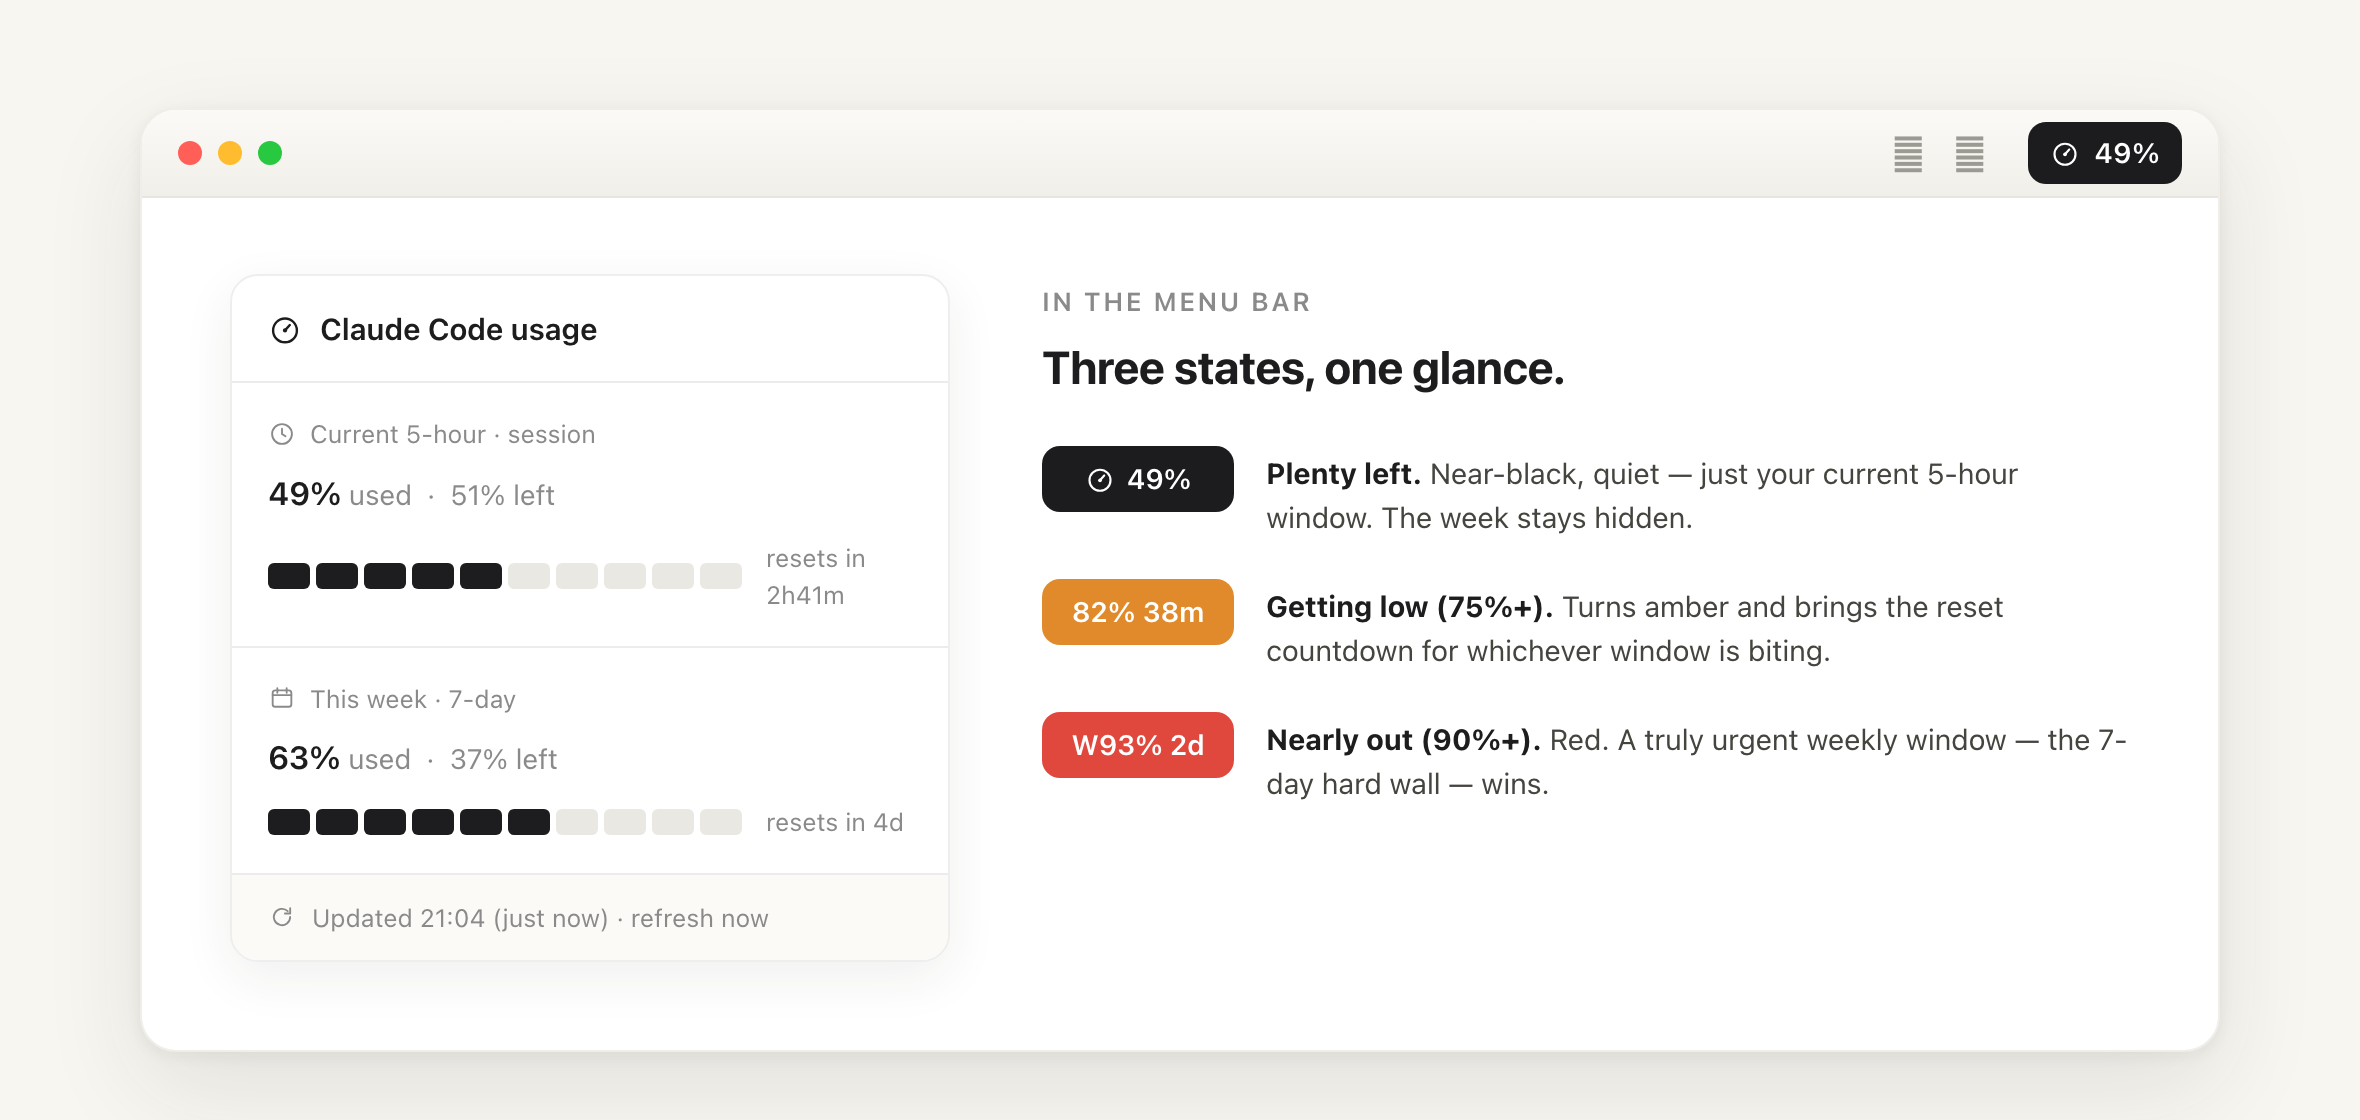
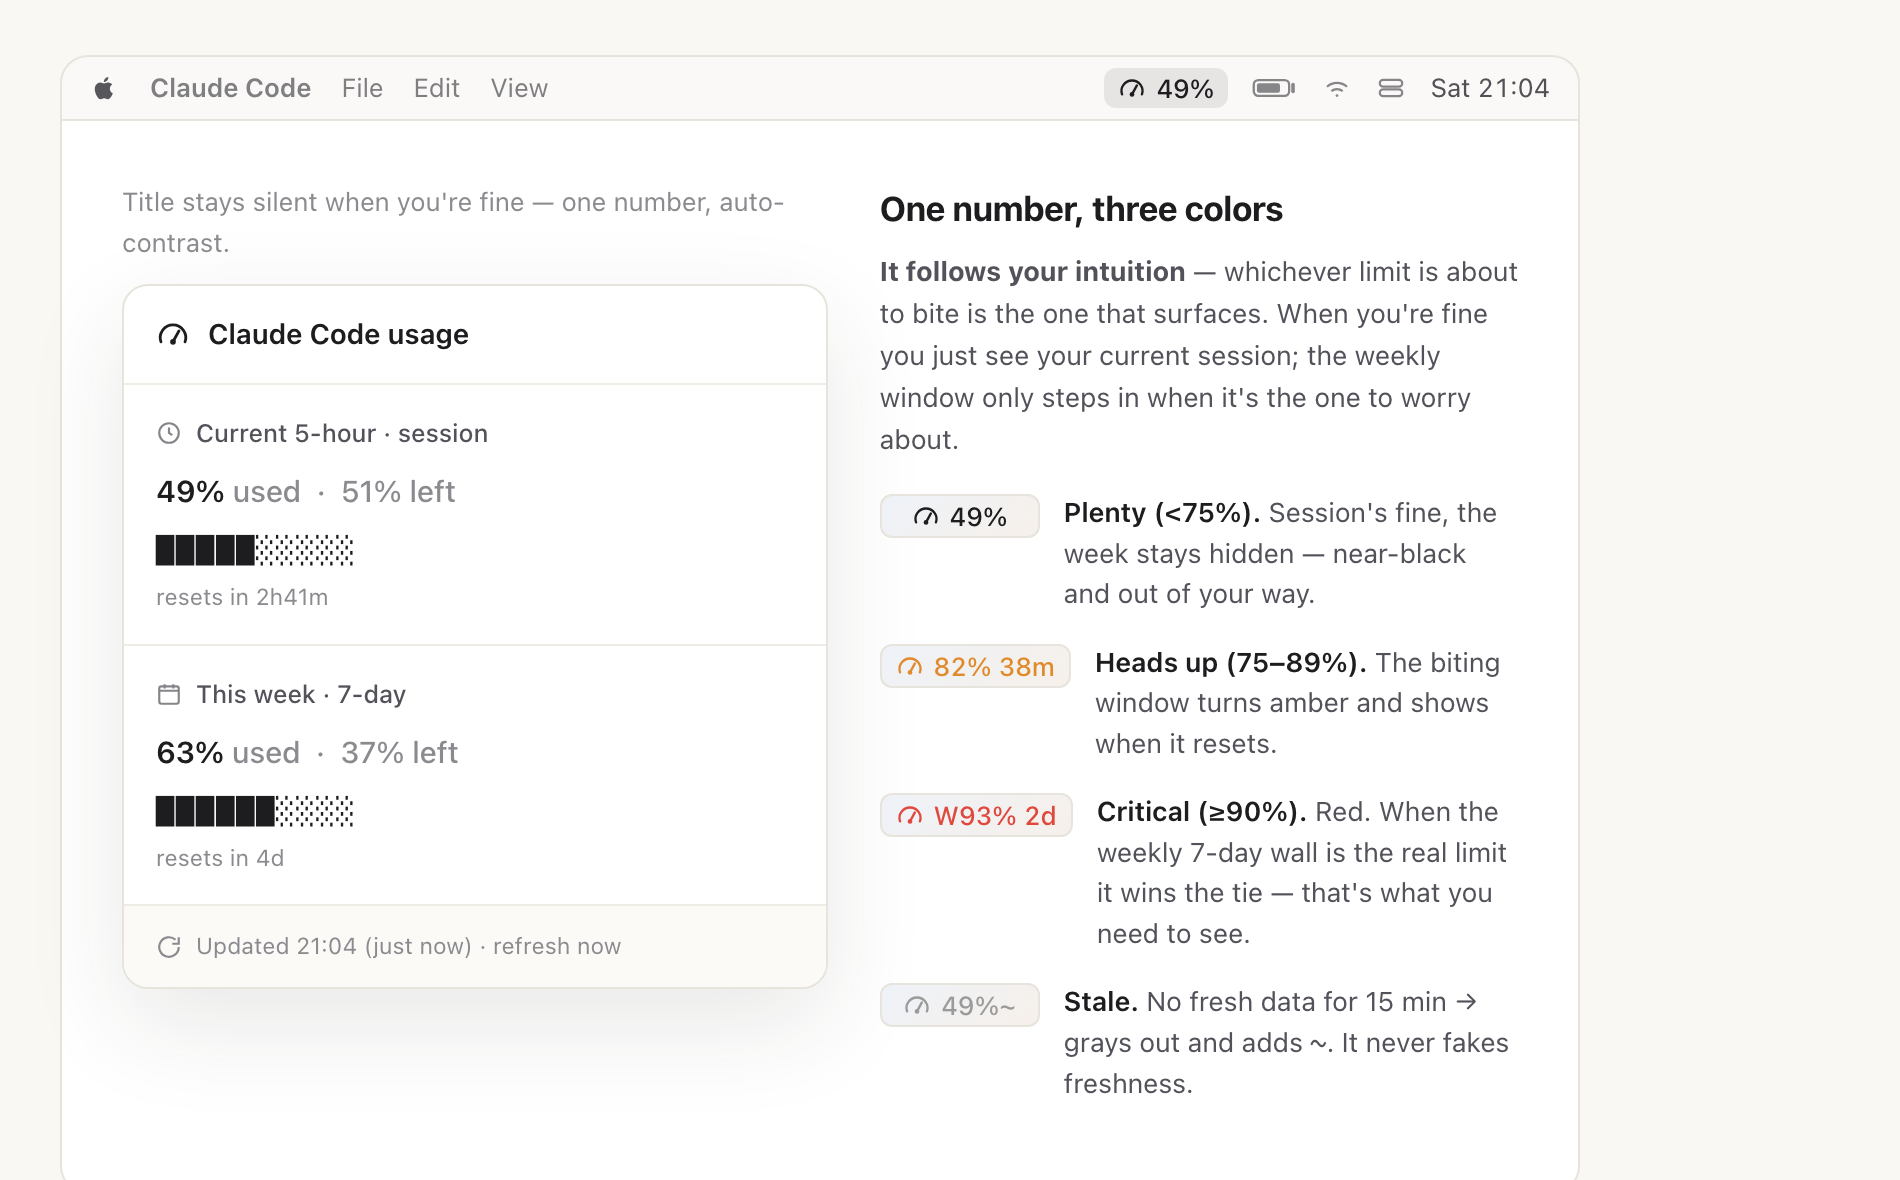
site: realistic macOS menu bar mock + 'one number, three colors' framing
- mockup now shows a real menu bar (Apple menu + plain-text gauge + system icons + clock), no fake traffic lights, no pill
- reframe states as 'one number, three colors' explaining the session-vs-week intuition (the window about to bite surfaces)
- 'Under the hood' → 'How it works'
- regenerate README showcase.png from the new mock

diff --git a/site/index.html b/site/index.html
@@ -104,24 +104,26 @@
   /* ---------- mock menu bar demo ---------- */
   .demo{margin:56px auto 0;max-width:760px}
   .macbar{
-    position:relative;background:linear-gradient(180deg,#f4f1ea,#ece8df);
+    position:relative;background:rgba(250,249,247,.94);
     border:1px solid var(--line);border-bottom:none;
-    border-radius:14px 14px 0 0;height:30px;display:flex;align-items:center;
-    padding:0 16px;gap:7px;
+    border-radius:14px 14px 0 0;height:32px;display:flex;align-items:center;
+    padding:0 14px;gap:16px;font-size:13px;color:#34343a;
   }
-  .macbar .traffic{display:flex;gap:7px}
-  .macbar .traffic i{width:11px;height:11px;border-radius:50%;display:block}
-  .macbar .traffic .r{background:#ff5f57}.macbar .traffic .y{background:#febc2e}.macbar .traffic .g{background:#28c840}
-  .macbar .right{margin-left:auto;display:flex;align-items:center;gap:14px}
-  .macbar .sysicon{color:#5a5a5f;font-size:13px;opacity:.7}
-  .pill{
-    display:inline-flex;align-items:center;gap:6px;background:var(--pill-bg);color:#fff;
-    font-family:var(--mono);font-size:12.5px;font-weight:600;line-height:1;
-    padding:5px 9px;border-radius:7px;letter-spacing:-.01em;
+  .macbar .appl svg{width:14px;height:14px;display:block;opacity:.82}
+  .macbar .mb-menus{display:flex;gap:15px;font-size:13px;opacity:.62}
+  .macbar .mb-menus b{font-weight:600;opacity:1}
+  .macbar .right{margin-left:auto;display:flex;align-items:center;gap:12px}
+  .macbar .sysicon{opacity:.58}
+  .macbar .clock{opacity:.85;font-variant-numeric:tabular-nums}
+  /* the ClaudeGauge item — plain menu-bar text, never a pill */
+  .mbg{
+    display:inline-flex;align-items:center;gap:5px;padding:3px 7px;border-radius:6px;
+    font-size:13px;font-weight:500;line-height:1;color:var(--ink);
+    font-variant-numeric:tabular-nums;white-space:nowrap;
   }
-  .pill .dial{width:13px;height:13px}
-  .pill.warn{background:var(--warn)}
-  .pill.crit{background:var(--crit)}
+  .mbg .dial{width:14px;height:14px}
+  .mbg.lit{background:rgba(0,0,0,.08)}
+  .mbg.warn{color:var(--warn)}.mbg.crit{color:var(--crit)}.mbg.stale{color:#9a9a9a}
 
   .screen{
     background:var(--card);border:1px solid var(--line);border-radius:0 0 14px 14px;
@@ -154,13 +156,12 @@
   .dd-foot{padding:11px 16px;background:#fbfaf7;font-size:11.5px;color:var(--ink-faint);display:flex;align-items:center;gap:7px;border-top:1px solid var(--line-soft)}
 
   .demo-legend{text-align:left}
-  .demo-legend h3{font-size:17px;letter-spacing:-.01em;margin:0 0 14px}
-  .leg{display:flex;gap:12px;margin-bottom:16px;align-items:flex-start}
-  .leg .chip{
-    flex:none;width:46px;height:26px;border-radius:7px;display:inline-flex;align-items:center;justify-content:center;
-    font-family:var(--mono);font-size:11px;font-weight:700;color:#fff;margin-top:1px;
-  }
-  .chip.ok{background:var(--pill-bg)}.chip.warn{background:var(--warn)}.chip.crit{background:var(--crit)}.chip.stale{background:#9a9a9a}
+  .demo-legend h3{font-size:17px;letter-spacing:-.01em;margin:0 0 8px}
+  .legend-lead{font-size:13.5px;color:var(--ink-soft);line-height:1.55;margin:0 0 16px}
+  .leg{display:flex;gap:12px;margin-bottom:14px;align-items:flex-start}
+  .leg .mbg{flex:none;min-width:80px;justify-content:center;margin-top:1px;
+    background:linear-gradient(140deg,#eef2f8,#f6f0ea);border:1px solid var(--line)}
+  .leg .txt{font-size:13px;color:var(--ink-soft);line-height:1.5}
   .leg .txt{font-size:13.5px;color:var(--ink-soft);line-height:1.5}
   .leg .txt b{color:var(--ink);font-weight:600}
 
@@ -306,11 +307,14 @@
     <!-- mock window -->
     <div class="demo">
       <div class="macbar">
-        <div class="traffic"><i class="r"></i><i class="y"></i><i class="g"></i></div>
+        <span class="appl"><svg viewBox="0 0 24 24" fill="currentColor" aria-hidden="true"><path d="M17.05 12.7c-.03-2.4 1.96-3.55 2.05-3.6-1.12-1.64-2.86-1.86-3.48-1.89-1.48-.15-2.89.87-3.64.87-.75 0-1.91-.85-3.14-.83-1.62.02-3.11.94-3.94 2.39-1.68 2.92-.43 7.24 1.2 9.61.8 1.16 1.75 2.46 3 2.41 1.2-.05 1.66-.78 3.11-.78 1.45 0 1.86.78 3.14.75 1.3-.02 2.12-1.18 2.91-2.35.92-1.35 1.3-2.66 1.32-2.73-.03-.01-2.53-.97-2.56-3.85zM14.7 5.6c.66-.8 1.1-1.92.98-3.03-.95.04-2.1.63-2.78 1.43-.61.71-1.14 1.84-1 2.93 1.06.08 2.14-.54 2.8-1.33z"/></svg></span>
+        <span class="mb-menus"><b>Claude Code</b><span>File</span><span>Edit</span><span>View</span></span>
         <div class="right">
-          <svg class="sysicon" width="14" height="14" viewBox="0 0 24 24" fill="currentColor" aria-hidden="true"><path d="M12 2a6 6 0 0 0-6 6v3l-2 4v1h16v-1l-2-4V8a6 6 0 0 0-6-6Z"/></svg>
-          <svg class="sysicon" width="14" height="14" viewBox="0 0 24 24" fill="none" stroke="currentColor" stroke-width="2" aria-hidden="true"><path d="M5 13a10 10 0 0 1 14 0M8.5 16.5a5 5 0 0 1 7 0"/></svg>
-          <span class="pill"><svg class="dial"><use href="#dial"/></svg> 49%</span>
+          <span class="mbg lit"><svg class="dial"><use href="#dial"/></svg> 49%</span>
+          <svg class="sysicon" width="23" height="14" viewBox="0 0 26 14" fill="none" aria-hidden="true"><rect x="1" y="2.5" width="20" height="9" rx="2.6" stroke="currentColor" stroke-width="1.3"/><rect x="2.8" y="4.3" width="13" height="5.4" rx="1.2" fill="currentColor"/><path d="M23.2 5v4" stroke="currentColor" stroke-width="2" stroke-linecap="round"/></svg>
+          <svg class="sysicon" width="15" height="15" viewBox="0 0 24 24" fill="none" stroke="currentColor" stroke-width="1.8" aria-hidden="true"><path d="M4 11a12 12 0 0 1 16 0M7.5 14.5a7 7 0 0 1 9 0"/><circle cx="12" cy="18" r="1.1" fill="currentColor" stroke="none"/></svg>
+          <svg class="sysicon" width="15" height="15" viewBox="0 0 24 24" fill="none" stroke="currentColor" stroke-width="1.7" aria-hidden="true"><rect x="3" y="5.5" width="18" height="5.4" rx="2.7"/><rect x="3" y="13.1" width="18" height="5.4" rx="2.7"/></svg>
+          <span class="clock">Sat 21:04</span>
         </div>
       </div>
       <div class="screen">
@@ -343,21 +347,22 @@
           </div>
         </div>
         <div class="demo-legend">
-          <h3>One status-aware signal light</h3>
+          <h3>One number, three colors</h3>
+          <p class="legend-lead"><b>It follows your intuition</b> — whichever limit is about to bite is the one that surfaces. When you're fine you just see your current session; the weekly window only steps in when it's the one to worry about.</p>
           <div class="leg">
-            <span class="chip ok">49%</span>
-            <span class="txt"><b>Plenty left (&lt;75%).</b> Shows just the current 5-hour window in near-black, hides the week. Quiet by design.</span>
+            <span class="mbg"><svg class="dial"><use href="#dial"/></svg> 49%</span>
+            <span class="txt"><b>Plenty (&lt;75%).</b> Session's fine, the week stays hidden — near-black and out of your way.</span>
           </div>
           <div class="leg">
-            <span class="chip warn">82% 38m</span>
-            <span class="txt"><b>Heads up (75–89%).</b> Amber, plus the reset countdown for whichever window is biting.</span>
+            <span class="mbg warn"><svg class="dial"><use href="#dial"/></svg> 82% 38m</span>
+            <span class="txt"><b>Heads up (75–89%).</b> The biting window turns amber and shows when it resets.</span>
           </div>
           <div class="leg">
-            <span class="chip crit">W93% 2d</span>
-            <span class="txt"><b>Critical (≥90%).</b> Red. The weekly 7-day wall wins ties — that's the hard limit.</span>
+            <span class="mbg crit"><svg class="dial"><use href="#dial"/></svg> W93% 2d</span>
+            <span class="txt"><b>Critical (≥90%).</b> Red. When the weekly 7-day wall is the real limit it wins the tie — that's what you need to see.</span>
           </div>
           <div class="leg">
-            <span class="chip stale">49%~</span>
+            <span class="mbg stale"><svg class="dial"><use href="#dial"/></svg> 49%~</span>
             <span class="txt"><b>Stale.</b> No fresh data for 15 min → grays out and adds <code style="font-family:var(--mono)">~</code>. It never fakes freshness.</span>
           </div>
         </div>
@@ -458,7 +463,7 @@
 <section id="how">
   <div class="wrap">
     <div class="sec-head">
-      <span class="eyebrow">Under the hood</span>
+      <span class="eyebrow">How it works</span>
       <h2>Three small layers</h2>
       <p>Each does one job. The render layer never touches the network when the background layer is healthy.</p>
     </div>